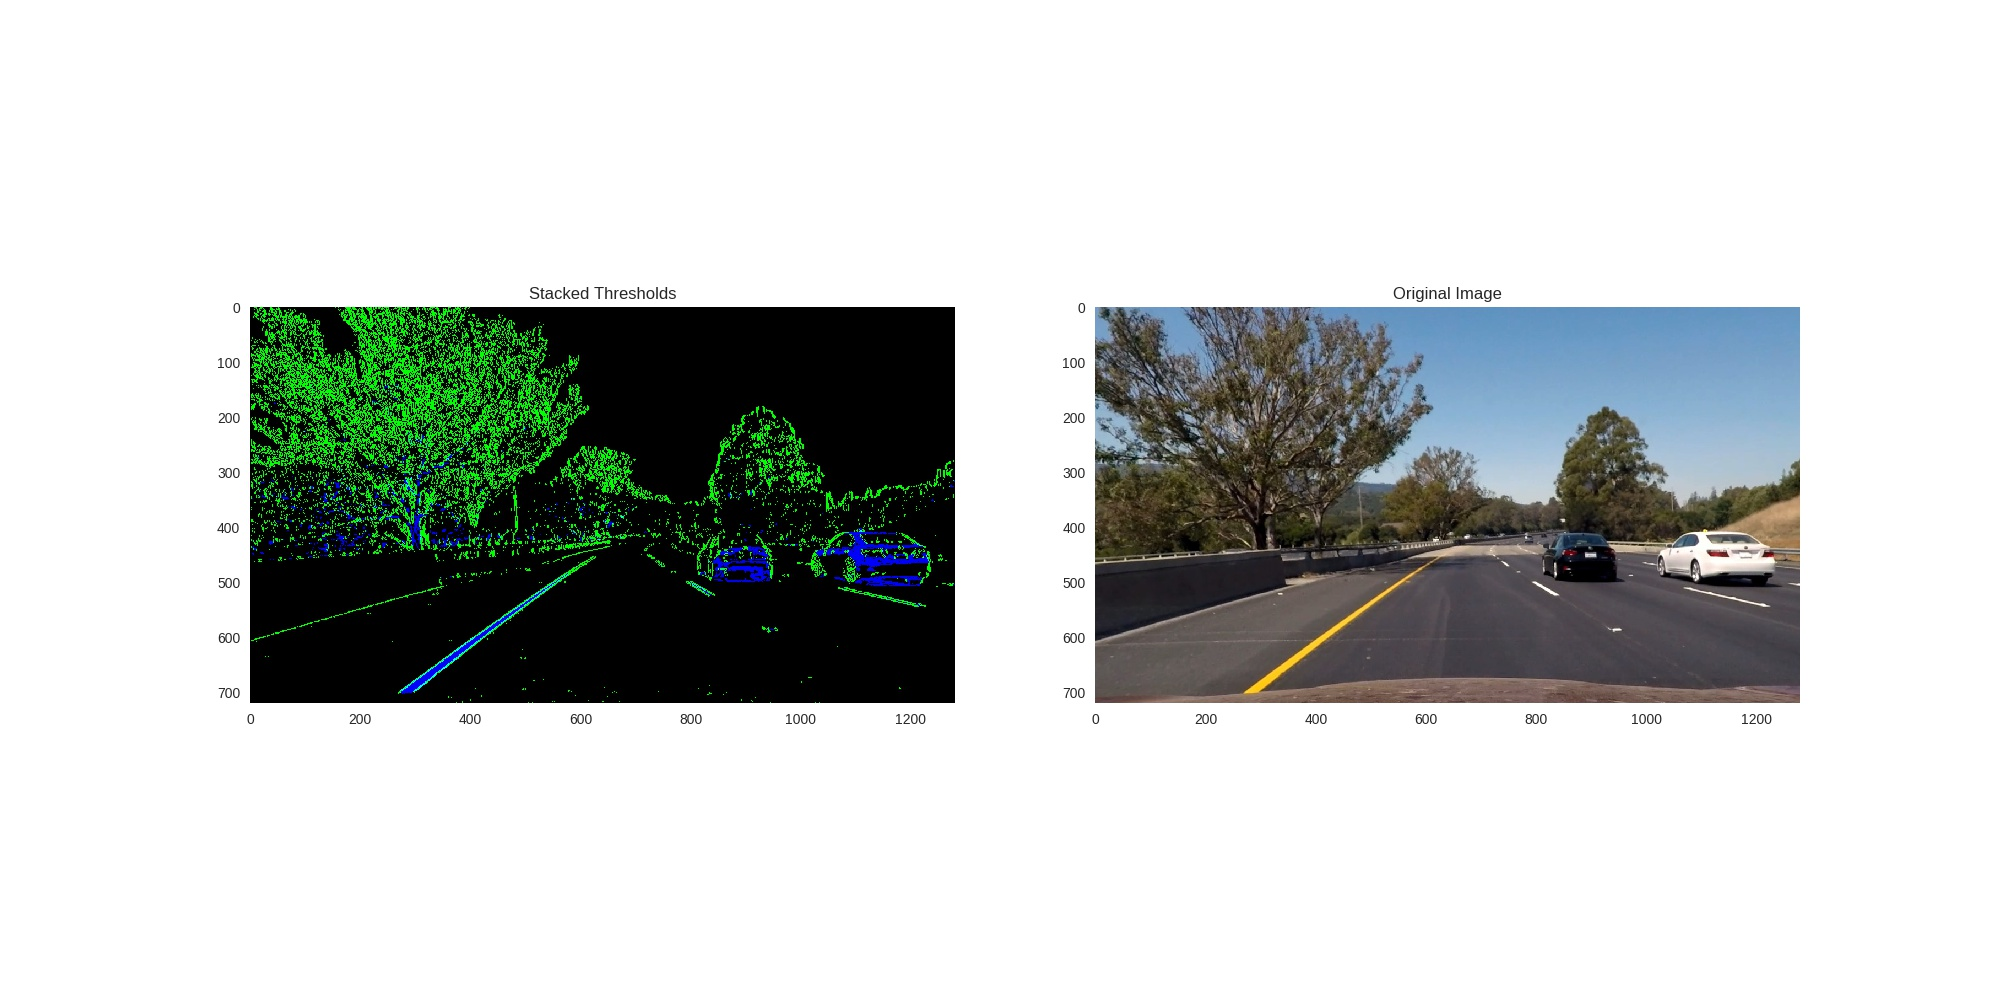
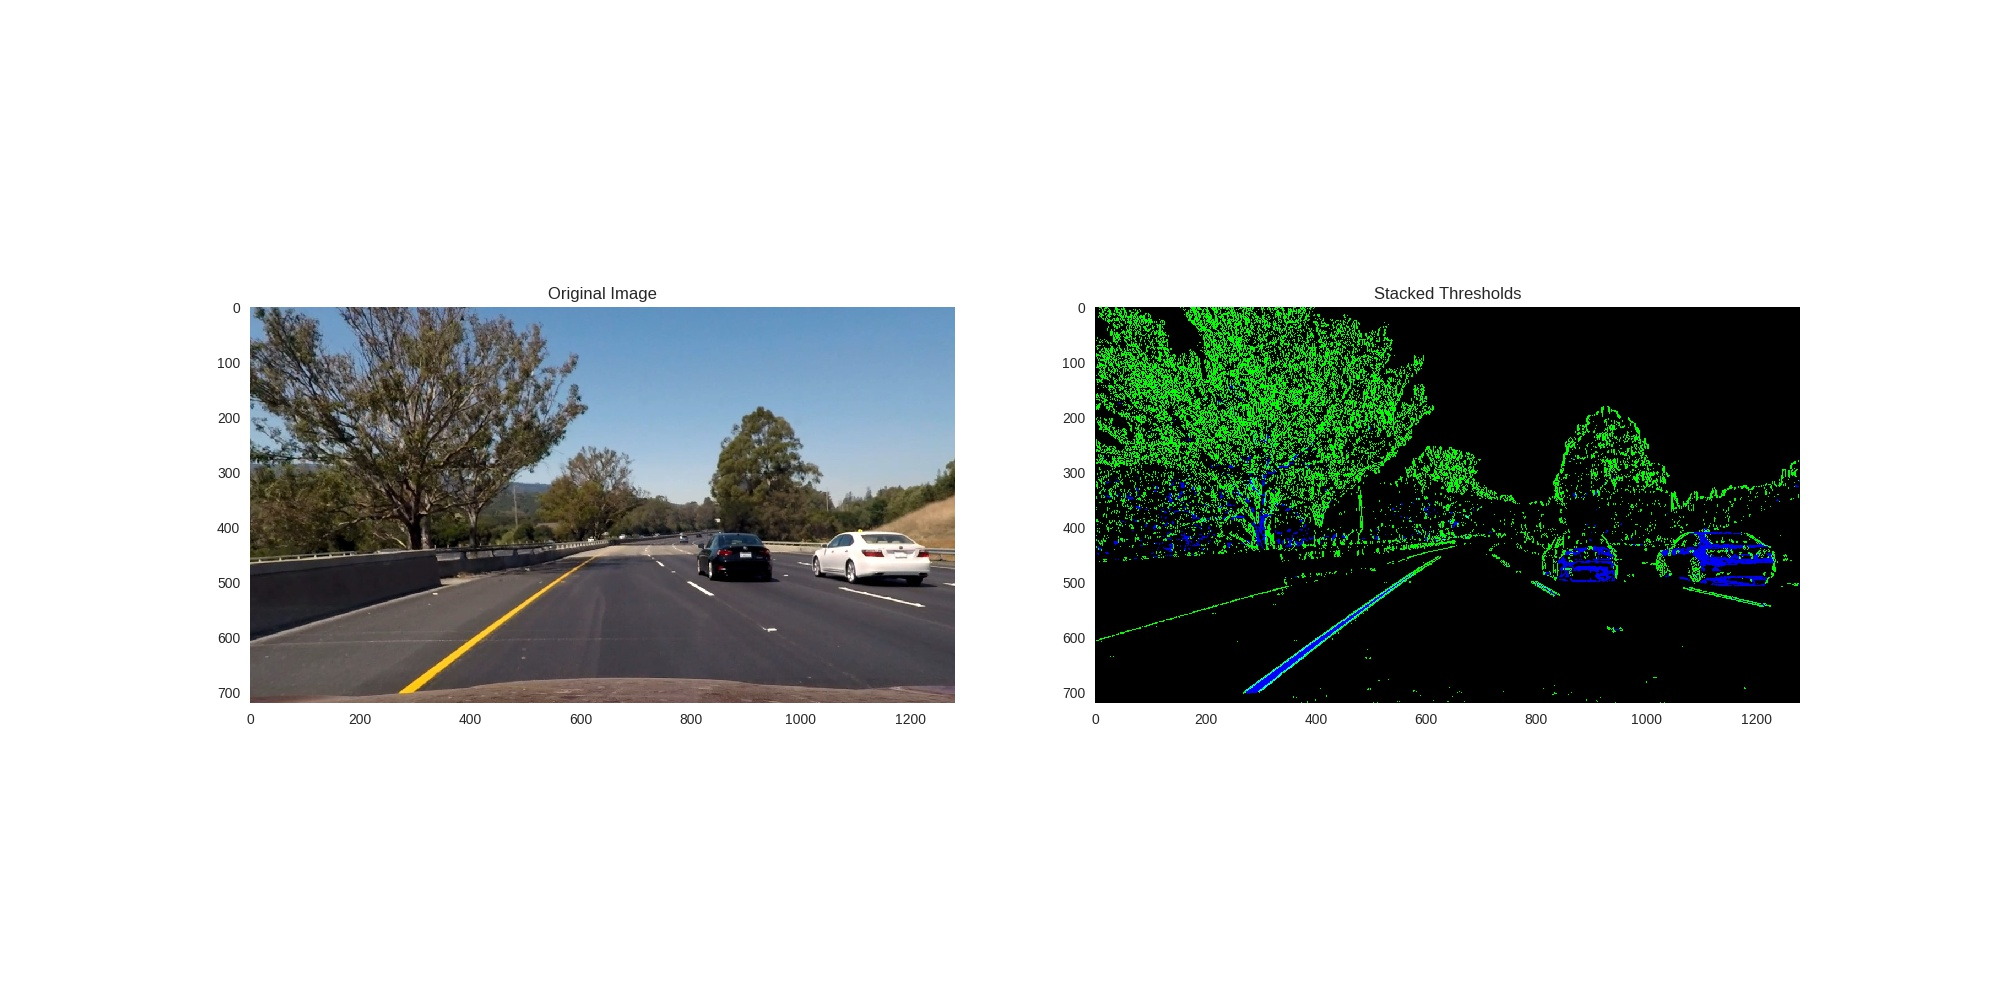
add sliding window search for line finding in pipeline

Changed region(s): [[0.124, 0.279, 0.496, 0.713], [0.527, 0.279, 0.899, 0.713]]

diff --git a/all.py b/all.py
@@ -153,10 +153,10 @@ for undistorted_image, test_image_filename in zip(undistorted_images, test_image
 
     sbs.set_style("dark")
     f, (ax1, ax2) = plt.subplots(1, 2, figsize=(20, 10))
-    ax1.set_title('Stacked Thresholds')
-    ax1.imshow(np.uint8(colored_binary * 255.999))
-    ax2.set_title('Original Image')
-    ax2.imshow(undistorted_image)
+    ax1.set_title('Original Image')
+    ax1.imshow(undistorted_image)
+    ax2.set_title('Stacked Thresholds')
+    ax2.imshow(np.uint8(colored_binary * 255.999))
     f.savefig("test_thresholded/" + test_image_filename)
 
 ###################################################################################################
@@ -207,14 +207,120 @@ for thresholded_image, test_image_filename in zip(thresholded_images, test_image
 
     sbs.set_style("dark")
     f, (ax1, ax2) = plt.subplots(1, 2, figsize=(20, 10))
-    ax1.set_title('Transformed Image')
-    ax1.imshow(np.uint8(transformed_binary * 255.999))
-    ax2.set_title('Original Image')
-    ax2.imshow(thresholded_image)
+    ax1.set_title('Original Image')
+    ax1.imshow(thresholded_image)
+    ax2.set_title('Transformed Image')
+    ax2.imshow(np.uint8(transformed_binary * 255.999))
     f.savefig("test_transformed/" + test_image_filename)
 
 ###################################################################################################
 ## Finding Lines
 ###################################################################################################
+
+def find_peaks (img, filename = None):
+    
+    histogram = np.sum(img[img.shape[0]//2:, :], axis = 0)
+
+    m = np.int(histogram.shape[0]/2)
+    l = np.argmax(histogram[:m])
+    r = np.argmax(histogram[m:]) + m
+
+    if (filename != None):
+        sbs.set_style("dark")
+        f, (ax1, ax2) = plt.subplots(1, 2, figsize=(20, 10))
+        ax1.set_title('Original Image')
+        ax1.imshow(np.uint8(img * 255.999))
+        plt.plot(histogram)
+        ax2.set_title('Histogram')
+        ax2.imshow(np.uint8(img * 255.999))
+        f.savefig("test_histogram/" + filename)
+
+    return m, l, r
+
+def sliding_window_lines (img, left, right, n_windows = 9, margin = 100, minpix = 100):
+
+
+    window_height = np.int(img.shape[0] / n_windows)
+
+    nonzero = img.nonzero()
+    nonzero_y = np.array(nonzero[0])
+    nonzero_x = np.array(nonzero[1])
+
+    left_current = left
+    right_current = right
+
+    left_lane_indices = []
+    right_lane_indices = []
+
+    left_rects = []
+    right_rects = []
+
+    for window in range(n_windows):
+
+        window_y_low = img.shape[0] - (window + 1) * window_height
+        window_y_high = img.shape[0] - window * window_height
+        window_x_left_low = left_current - margin
+        window_x_left_high = left_current + margin
+        window_x_right_low = right_current - margin
+        window_x_right_high = right_current + margin
+
+        left_rects.append([(window_x_left_low, window_y_low), (window_x_left_high, window_y_high)])
+        right_rects.append([(window_x_right_low, window_y_low), (window_x_right_high, window_y_high)])
+
+        #cv2.rectangle(output_image, (window_x_left_low, window_y_low), (window_x_left_high, window_y_high), (0, 255, 0), 2)
+        #cv2.rectangle(output_image, (window_x_right_low, window_y_low), (window_x_right_high, window_y_high), (0, 255, 0), 2)
+
+        good_left_indices = ((nonzero_y >= window_y_low) & (nonzero_y < window_y_high) & (nonzero_x >= window_x_left_low) & (nonzero_x < window_x_left_high)).nonzero()[0]
+        good_right_indices = ((nonzero_y >= window_y_low) & (nonzero_y < window_y_high) & (nonzero_x >= window_x_right_low) & (nonzero_x < window_x_right_high)).nonzero()[0]
+
+        left_lane_indices.append(good_left_indices)
+        right_lane_indices.append(good_right_indices)
+
+        if len(good_left_indices) > minpix:
+            left_current = np.int(np.mean(nonzero_x[good_left_indices]))
+        if len(good_right_indices) > minpix:
+            right_current = np.int(np.mean(nonzero_x[good_right_indices]))
+
+    left_lane_indices = np.concatenate(left_lane_indices)
+    right_lane_indices = np.concatenate(right_lane_indices)
+
+    left_x = nonzero_x[left_lane_indices]
+    left_y = nonzero_y[left_lane_indices]
+    right_x = nonzero_x[right_lane_indices]
+    right_y = nonzero_y[right_lane_indices]
+
+    return left_rects, left_x, left_y, right_rects, right_x, right_y
+
+
+for transformed_image, test_image_filename in zip(transformed_images, test_images_filenames):
+
+    print("Finding lines " + test_image_filename)
+
+    mid, left, right = find_peaks(transformed_image, test_image_filename)
+    left_r, left_x, left_y, right_r, right_x, right_y = sliding_window_lines(transformed_image, left, right)
+
+    lines_image = (np.dstack((transformed_image, transformed_image, transformed_image)) * 255).astype(np.uint8).copy()
+
+    for left_rect, right_rect in zip(left_r, right_r):
+        cv2.rectangle(lines_image, left_rect[0], left_rect[1], (0, 255, 0), 2)
+        cv2.rectangle(lines_image, right_rect[0], right_rect[1], (0, 255, 0), 2)
+
+    left_fit = np.polyfit(left_y, left_x, 2)
+    right_fit = np.polyfit(right_y, right_x, 2)
+
+    plot_y = np.linspace(0, transformed_image.shape[0]-1, transformed_image.shape[0])
+    left_fit_x = left_fit[0] * plot_y ** 2 + left_fit[1] * plot_y + left_fit[2]
+    right_fit_x = right_fit[0] * plot_y ** 2 + right_fit[1] * plot_y + right_fit[2]
+
+    lines_image[left_y, left_x] = [255, 0 ,0]
+    lines_image[right_y, right_x] = [0, 0, 255]
+
+    f = plt.figure()
+    plt.imshow(lines_image)
+    plt.plot(left_fit_x, plot_y, color='yellow')
+    plt.plot(right_fit_x, plot_y, color='yellow')
+    plt.xlim(0, 1280)
+    plt.ylim(720, 0)
+    f.savefig("test_lines/" + test_image_filename)
 
 ## TODO
